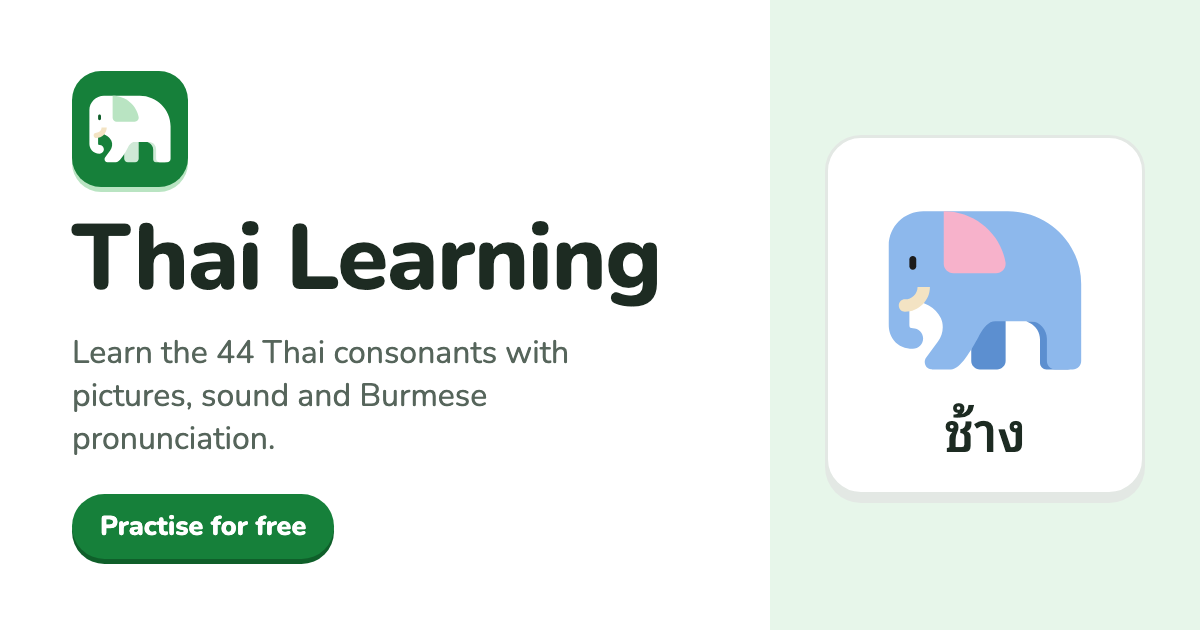
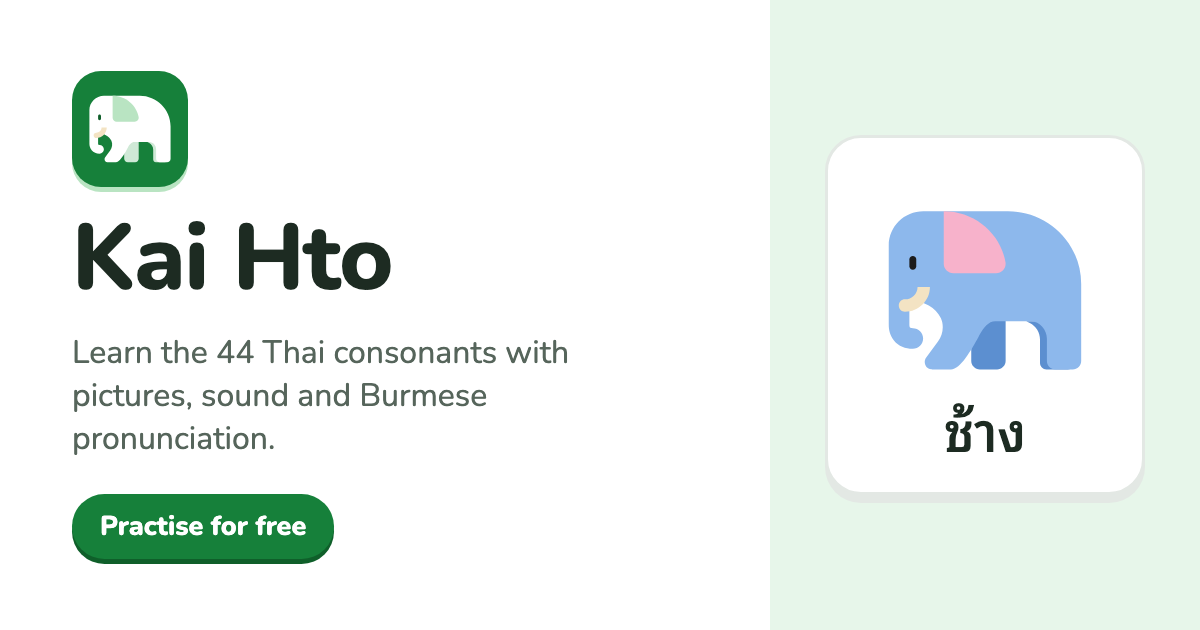
Rename the app from Thai Learning to Kai Hto
The page title, link preview tags and image, header, Home heading and README now say Kai Hto. The package, repository
and pages.dev address keep their thai-learning names.

Changed region(s): [[0.0617, 0.3317, 0.555, 0.4825]]

diff --git a/index.html b/index.html
@@ -7,19 +7,19 @@
     <meta name="description" content="Learn the 44 Thai consonants with pictures, sound and Burmese pronunciation." />
     <meta name="theme-color" content="#16803a" />
     <meta property="og:type" content="website" />
-    <meta property="og:site_name" content="Thai Learning" />
-    <meta property="og:title" content="Thai Learning" />
+    <meta property="og:site_name" content="Kai Hto" />
+    <meta property="og:title" content="Kai Hto" />
     <meta property="og:description" content="Learn the 44 Thai consonants with pictures, sound and Burmese pronunciation." />
     <meta property="og:url" content="https://thai-learning-dxd.pages.dev/" />
     <meta property="og:image" content="https://thai-learning-dxd.pages.dev/og-image.png" />
     <meta property="og:image:width" content="1200" />
     <meta property="og:image:height" content="630" />
-    <meta property="og:image:alt" content="Thai Learning: a white elephant logo and an elephant picture labelled ช้าง" />
+    <meta property="og:image:alt" content="Kai Hto: a white elephant logo and an elephant picture labelled ช้าง" />
     <meta name="twitter:card" content="summary_large_image" />
-    <meta name="twitter:title" content="Thai Learning" />
+    <meta name="twitter:title" content="Kai Hto" />
     <meta name="twitter:description" content="Learn the 44 Thai consonants with pictures, sound and Burmese pronunciation." />
     <meta name="twitter:image" content="https://thai-learning-dxd.pages.dev/og-image.png" />
-    <title>Thai Learning</title>
+    <title>Kai Hto</title>
   </head>
   <body>
     <div id="root"></div>

diff --git a/src/components/Layout/index.test.tsx b/src/components/Layout/index.test.tsx
@@ -19,8 +19,8 @@ describe('Layout', () => {
   it('renders the brand link, main navigation and screen content', () => {
     renderLayout('/');
 
-    expect(screen.getByRole('link', { name: 'Thai Learning' })).toHaveAttribute('href', '/');
-    expect(within(screen.getByRole('link', { name: 'Thai Learning' })).getByRole('presentation')).toHaveAttribute(
+    expect(screen.getByRole('link', { name: 'Kai Hto' })).toHaveAttribute('href', '/');
+    expect(within(screen.getByRole('link', { name: 'Kai Hto' })).getByRole('presentation')).toHaveAttribute(
       'src',
       '/favicon.svg'
     );

diff --git a/src/components/Layout/index.tsx b/src/components/Layout/index.tsx
@@ -16,7 +16,7 @@ const Layout = () => (
       <div className="mx-auto flex max-w-content items-center justify-between gap-2 px-4 py-3">
         <Link to="/" className="inline-flex items-center gap-2 rounded-xl text-xl font-extrabold text-brand no-underline">
           <img className="size-9" src={assetUrl('favicon.svg')} alt="" />
-          <span className="max-xs:sr-only">Thai Learning</span>
+          <span className="max-xs:sr-only">Kai Hto</span>
         </Link>
         <nav aria-label="Main">
           <ul className="flex sm:gap-1" role="list">

diff --git a/src/screens/Home/index.test.tsx b/src/screens/Home/index.test.tsx
@@ -8,7 +8,7 @@ describe('Home', () => {
   it('renders the title and tagline', () => {
     render(<Home />, { wrapper: MemoryRouter });
 
-    expect(screen.getByRole('heading', { level: 1, name: 'Thai Learning' })).toBeInTheDocument();
+    expect(screen.getByRole('heading', { level: 1, name: 'Kai Hto' })).toBeInTheDocument();
     expect(screen.getByText('Learn Thai step by step')).toBeInTheDocument();
   });
 

diff --git a/src/screens/Home/index.tsx b/src/screens/Home/index.tsx
@@ -26,7 +26,7 @@ const Home = () => (
       ))}
     </ul>
     <h1 id="home-title" className="text-[clamp(2.25rem,8vw,3rem)] leading-[1.1] font-extrabold">
-      Thai Learning
+      Kai Hto
     </h1>
     <p className="-mt-3 text-xl text-ink-muted">Learn Thai step by step</p>
     <div className="grid w-full gap-3">

diff --git a/README.md b/README.md
@@ -1,6 +1,6 @@
-# Thai Learning
+# Kai Hto
 
-![Thai Learning: a white elephant logo and an elephant picture labelled ช้าง](public/og-image.png)
+![Kai Hto: a white elephant logo and an elephant picture labelled ช้าง](public/og-image.png)
 
 A responsive, client-side web app for Burmese-speaking learners studying Thai consonants and their vocabulary.
 
